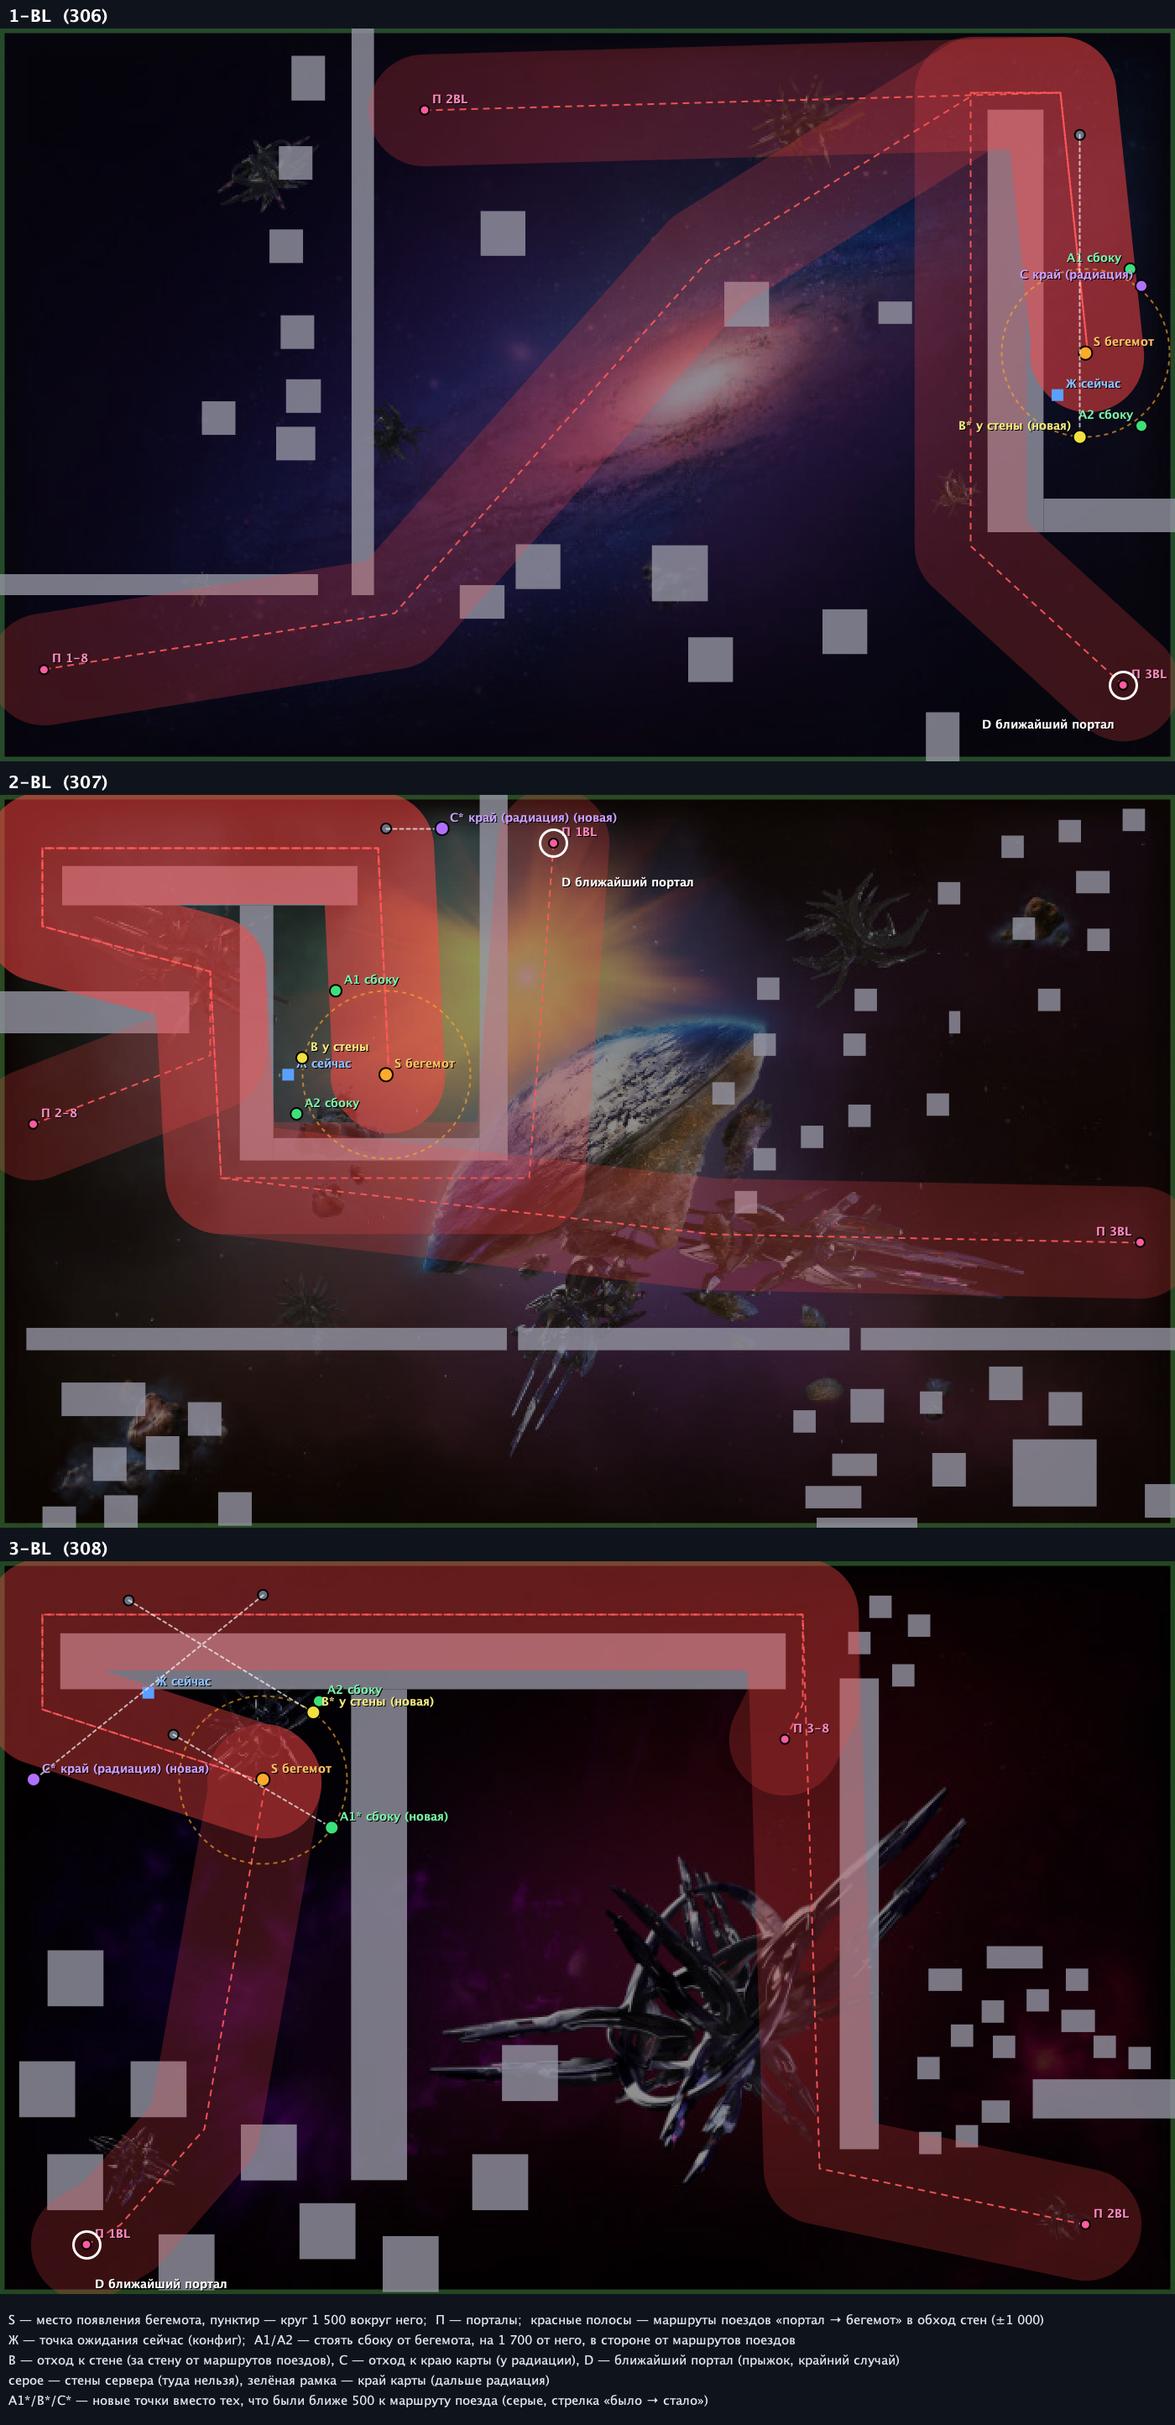
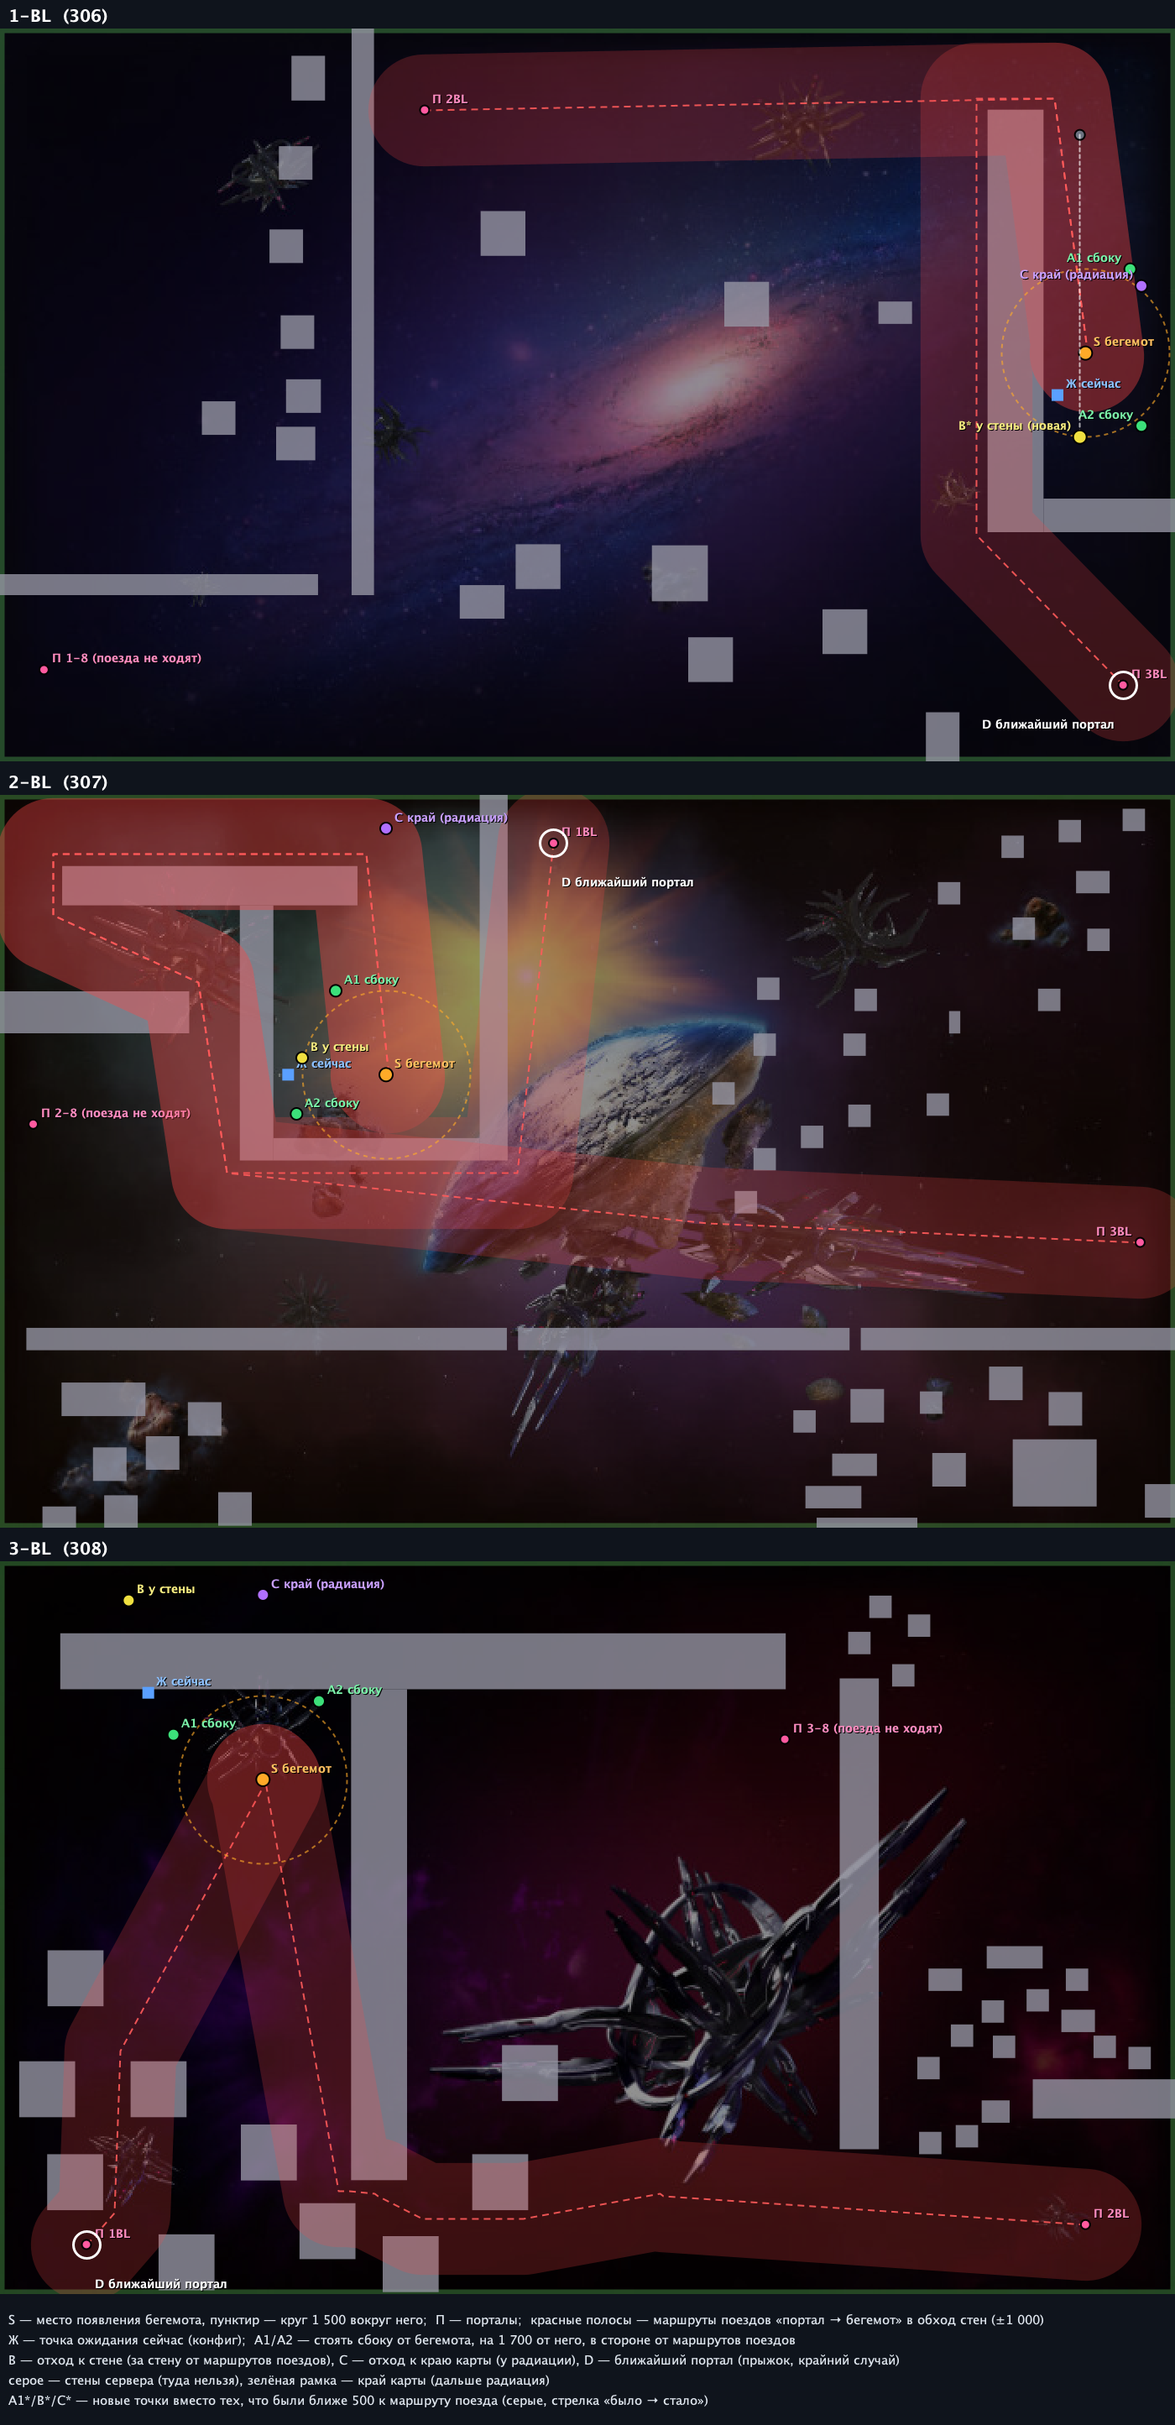
Draw the BL trains only between the BL maps and the 3-BL one from 2BL by the base

diff --git a/tools/BlMap.java b/tools/BlMap.java
@@ -9,7 +9,8 @@ import javax.imageio.ImageIO;
 /**
  * Draws the BL maps (1-, 2-, 3-BL) for docs/BLACKLIGHT.md «Точки у бегемота»: the walls the server sends
  * (reference/maps/bl-walls.json), the behemoth's spawn, the trains' routes portal → spawn found round the walls (A* on a
- * 100 grid, walls kept 300 off, then straightened), the wait point now and the side / retreat points the user chose
+ * 100 grid, walls kept 150 off, then straightened; none from
+ * the x-8 portals, on 3-BL the one from 2BL by the base — the user, 2026-11-20), the wait point now and the side / retreat points the user chose
  * (2026-11-20), with their distance from the routes printed.
  *
  * <p>Run from the repo root after {@code ./gradlew :app:installDist}, with the game's minimaps in {@code <dir>/img}
@@ -34,6 +35,12 @@ public class BlMap {
             {{1545, 12210}, {19400, 11854}, {14027, 3181}}};
         String[][] pnames = {{"1-8", "2BL", "3BL"}, {"1BL", "2-8", "3BL"}, {"1BL", "2BL", "3-8"}};
         String[] names = {"1-BL", "2-BL", "3-BL"};
+        // what the user sees in the game (2026-11-20): the trains go only between the BL maps — none from the x-8 portals
+        // (1-8, 2-8, 3-8); on 3-BL the train from 2BL flies along the bottom by the base (118/120), not over the top wall
+        boolean[][] noTrain = {{true, false, false}, {false, true, false}, {false, false, true}};
+        // 3-BL from the base: under the long vertical wall's end (62..72 down to 110) and up to the spawn
+        int[][][][] via = {{null, null, null}, {null, null, null},
+            {null, {{11800, 11300}, {6700, 11300}}, {{11800, 11300}, {6700, 11300}}}};
         int[] ids = {306, 307, 308};
         int ph = (int) (H * K);
         BufferedImage out = new BufferedImage(1400, 3 * (ph + 40) + 150, BufferedImage.TYPE_INT_RGB);
@@ -81,7 +88,26 @@ public class BlMap {
             List<List<double[]>> routes = new ArrayList<>();
             for (int p = 0; p < 3; p++) {
                 int[] q = portals[m][p];
-                List<double[]> r = route(q[0], q[1], s[0], s[1]);
+                if (noTrain[m][p]) {
+                    dot(g, q[0], q[1], oy, new Color(0xff5aa0), 9);
+                    label(g, q[0], q[1], oy, "П " + pnames[m][p] + " (поезда не ходят)", new Color(0xff8cc0));
+                    continue;
+                }
+                List<double[]> r;
+                if (via[m][p] != null) {
+                    r = new ArrayList<>();
+                    double[] from = {q[0], q[1]};
+                    List<double[]> stops = new ArrayList<>();
+                    for (int[] v : via[m][p]) stops.add(new double[] {v[0], v[1]});
+                    stops.add(new double[] {s[0], s[1]});
+                    for (double[] to : stops) {
+                        List<double[]> leg = route(from[0], from[1], to[0], to[1]);
+                        r.addAll(r.isEmpty() ? leg : leg.subList(1, leg.size()));
+                        from = to;
+                    }
+                } else {
+                    r = route(q[0], q[1], s[0], s[1]);
+                }
                 routes.add(r);
                 Path2D path = new Path2D.Double();
                 for (int i = 0; i < r.size(); i++) {
@@ -236,13 +262,16 @@ public class BlMap {
         return best;
     }
 
-    /** Free for a ship: inside the map, 300+ off every wall. */
+    /** The trains' routes keep this off the walls (they fly through the narrow gaps too: 3-BL under its long wall). */
+    static final double ROUTE_MARGIN = 150;
+
+    /** Free for a ship: inside the map, {@link #ROUTE_MARGIN}+ off every wall. */
     static boolean freeCell(int cx, int cy) {
         double x = cx * CELL + CELL / 2.0, y = cy * CELL + CELL / 2.0;
         if (x < 150 || y < 150 || x > W - 150 || y > H - 150) return false;
         for (double[] w : walls) {
-            if (w[3] < 0 ? Math.hypot(x - w[0], y - w[1]) < w[2] + 300
-                    : x > w[0] - 300 && x < w[2] + 300 && y > w[1] - 300 && y < w[3] + 300) return false;
+            if (w[3] < 0 ? Math.hypot(x - w[0], y - w[1]) < w[2] + ROUTE_MARGIN
+                    : x > w[0] - ROUTE_MARGIN && x < w[2] + ROUTE_MARGIN && y > w[1] - ROUTE_MARGIN && y < w[3] + ROUTE_MARGIN) return false;
         }
         return true;
     }

diff --git a/docs/BLACKLIGHT.md b/docs/BLACKLIGHT.md
@@ -524,8 +524,13 @@ gb2: в 01:42–01:45 связь оборвалась, корабль погиб
 ![BL-карты: место бегемота, маршруты поездов, точки](img/bl-maps.png)
 
 Картинка — `tools/BlMap.java`, стены — `reference/maps/bl-walls.json` (зоны NO_ACCESS сервера, выученные ботом на
-VPS 19.11). Маршруты поездов «портал → бегемот» — кратчайший путь в обход стен (сетка 100, от стен 300, потом
-выпрямлен), полоса ±1 000. Это приближение: настоящие поезда летят похоже, но не обязаны точно так.
+VPS 19.11). Маршруты поездов «портал → бегемот» — кратчайший путь в обход стен (сетка 100, от стен 150, потом
+выпрямлен), полоса ±1 000, с поправками пользователя по тому, как поезда ходят в игре (2026-11-20):
+- **поезда ходят только между BL-картами**: с порталов на x-8 (1-8, 2-8, 3-8) маршрутов нет;
+- **3-BL** — поезд с 2BL идёт не над верхней стеной, а **низом, мимо базы** (118/120), под концом длинной
+  вертикальной стены (62..72, до 110) и снизу слева вверх к бегемоту.
+
+Это приближение: поезда летят похоже, но не обязаны точно так.
 
 Пользователь (2026-11-20): бот не должен игнорировать обидчиков и круг из конфига — стоять у края круга обидчика, идти
 за ним, когда круг уходит, и стоять, когда круг стоит; ждать сбоку от места бегемота, чтобы ещё не долетевшие из поезда
@@ -534,23 +539,24 @@ VPS 19.11). Маршруты поездов «портал → бегемот» 
 
 | Карта | Бегемот | Ждёт сейчас | A1 сбоку | A2 сбоку | B у стены | C у края (радиация) | D портал |
 |---|---|---|---|---|---|---|---|
-| 1-BL (306) | 194/58 | 189/65 | 202/43 (909) | 204/71 (1 570) | 193/19 (**268**) | 204/46 (1 076) | на 3BL |
-| 2-BL (307) | 69/50 | 51/50 | 60/35 (873) | 53/57 (1 150) | 54/47 (1 529) | 69/6 (**380**) | на 1BL |
-| 3-BL (308) | 47/39 | 26/23 | 31/31 (**298**) | 57/25 (1 550) | 23/7 (**250**) | 47/6 (**350**) | на 1BL |
+| 1-BL (306) | 194/58 | 189/65 | 202/43 (944) | 204/71 (1 570) | 193/19 (**362**) | 204/46 (1 103) | на 3BL |
+| 2-BL (307) | 69/50 | 51/50 | 60/35 (791) | 53/57 (1 050) | 54/47 (1 507) | 69/6 (570) | на 1BL |
+| 3-BL (308) | 47/39 | 26/23 | 31/31 (1 788) | 57/25 (1 720) | 23/7 (4 000) | 47/6 (3 300) | на 1BL |
 
-В скобках — расстояние до ближайшего маршрута поезда; жирное — точка почти на маршруте (ближе 500), её стоит
-пересмотреть. A1/A2 — где ждать (1 700 от места бегемота, в стороне от маршрутов), B/C — куда отойти, если сбоку
-места нет, D — ближайший портал (прыжок и назад, крайний случай).
+В скобках — расстояние до ближайшего маршрута поезда; жирное — точка почти на маршруте (ближе 500). A1/A2 — где ждать
+(1 700 от места бегемота, в стороне от маршрутов), B/C — куда отойти, если сбоку места нет, D — ближайший портал
+(прыжок и назад, крайний случай).
 
-Что видно по маршрутам: на 1-BL поезд с 2BL обходит стену справа, вдоль края карты, мимо A1 и C; на 2-BL бегемот в
-«кармане» из стен, открытом сверху, — все три поезда заходят сверху, через A1; на 3-BL поезда с 2BL и 3-8 идут над
-верхней стеной (по B и C) и спускаются слева вдоль A1 и нынешней точки ожидания.
+2-BL, B: сначала была 67/89 у нижней стены (3 900 от бегемота) — пользователь: «не та стена, нужно ближе к бегемоту,
+чтобы успеть подлететь и нанести как можно больше урона, чтобы получить коробку». Теперь 54/47 — у левой стены
+«кармана», ~1 500 от бегемота и от маршрутов.
 
-**Безопаснее всего из выбранных (по маршрутам):** на 1-BL — A2, на 2-BL — A2 и B, на 3-BL — A2.
+Что видно по маршрутам: на 1-BL поезд с 2BL обходит стену справа, вдоль края карты (у B), с 3BL — снизу; на 2-BL
+бегемот в «кармане» из стен, открытом сверху, — поезда с 1BL и 3BL заходят сверху, а нынешняя точка ожидания (51/50)
+с поездов не на пути (маршрута с 2-8 нет); на 3-BL оба поезда приходят снизу (с 1BL — из левого нижнего угла, с 2BL —
+мимо базы), сверху над бегемотом поездов нет.
 
-2-BL, B: сначала была 67/89 у нижней стены (3 900 от бегемота) — пользователь: «не та стена, нужно ближе к бегемоту, чтобы успеть подлететь и нанести как можно больше урона, чтобы получить коробку». Теперь 54/47 — у левой стены «кармана», 1 529 от бегемота и 1 529 от маршрутов.
-
-### Новые точки вместо тех, что у маршрутов (вариант 2, 2026-11-20)
+### Новые точки вместо тех, что у маршрутов (вариант 2)
 
 ![BL-карты: новые точки вместо тех, что у маршрутов](img/bl-maps-v2.png)
 
@@ -559,14 +565,10 @@ VPS 19.11). Маршруты поездов «портал → бегемот» 
 бегемота, не ближе 1 200 к маршрутам, ближайшая к бегемоту; C — у края карты (600 внутрь), не ближе 1 200 к маршрутам,
 ближайшая к бегемоту. На картинке старые — серые, стрелка «было → стало».
 
-| Карта | Было (до маршрута) | Стало | До маршрута | До бегемота |
-|---|---|---|---|---|
-| 1-BL | B 193/19 (268) | **B\* 193/73** — у стены под бегемотом, рядом с A2 | 1 457 | 1 503 |
-| 2-BL | C 69/6 (380) | **C\* 79/6** — верхний край, правее | 1 202 | 4 512 |
-| 3-BL | A1 31/31 (298) | **A1\* 59/47** — справа-снизу от бегемота, у вертикальной стены | 1 302 | 1 500 |
-| 3-BL | B 23/7 (250) | **B\* 56/27** — почти там же, где A2 (57/25) | 1 500 | 1 500 |
-| 3-BL | C 47/6 (350) | **C\* 6/39** — левый край, за маршрутом с 1BL | 1 235 | 4 100 |
+С поправленными маршрутами замена нужна одна: **1-BL, B 193/19 (362 от маршрута) → B\* 193/73** — у стены под
+бегемотом, рядом с A2, 1 457 от маршрута и 1 503 от бегемота. На 3-BL прежние точки оказались далеко от поездов
+(A1 31/31 — 1 788, B и C над верхней стеной — 3 300–4 000), на 2-BL C 69/6 — 570.
 
-Итого для пробы: 1-BL — ждать A1 или A2, отход B\* или C, крайний случай портал на 3BL; 2-BL — A1 или A2, отход B или
-C\* (C\* далеко, 4,5 тыс.), портал на 1BL; 3-BL — A1\* или A2, отход B\* (= почти A2) или C\* (далеко, 4,1 тыс.),
-портал на 1BL. На 3-BL у бегемота мало места вне маршрутов: два поезда спускаются слева, один снизу.
+Итого для пробы: 1-BL — ждать A1 или A2, отход B\* или C, крайний случай портал на 3BL; 2-BL — A1 или A2, отход B
+(54/47) или C, портал на 1BL; 3-BL — A1 или A2, отход B или C (над верхней стеной, ~3–4 тыс. от бегемота), портал на
+1BL.
